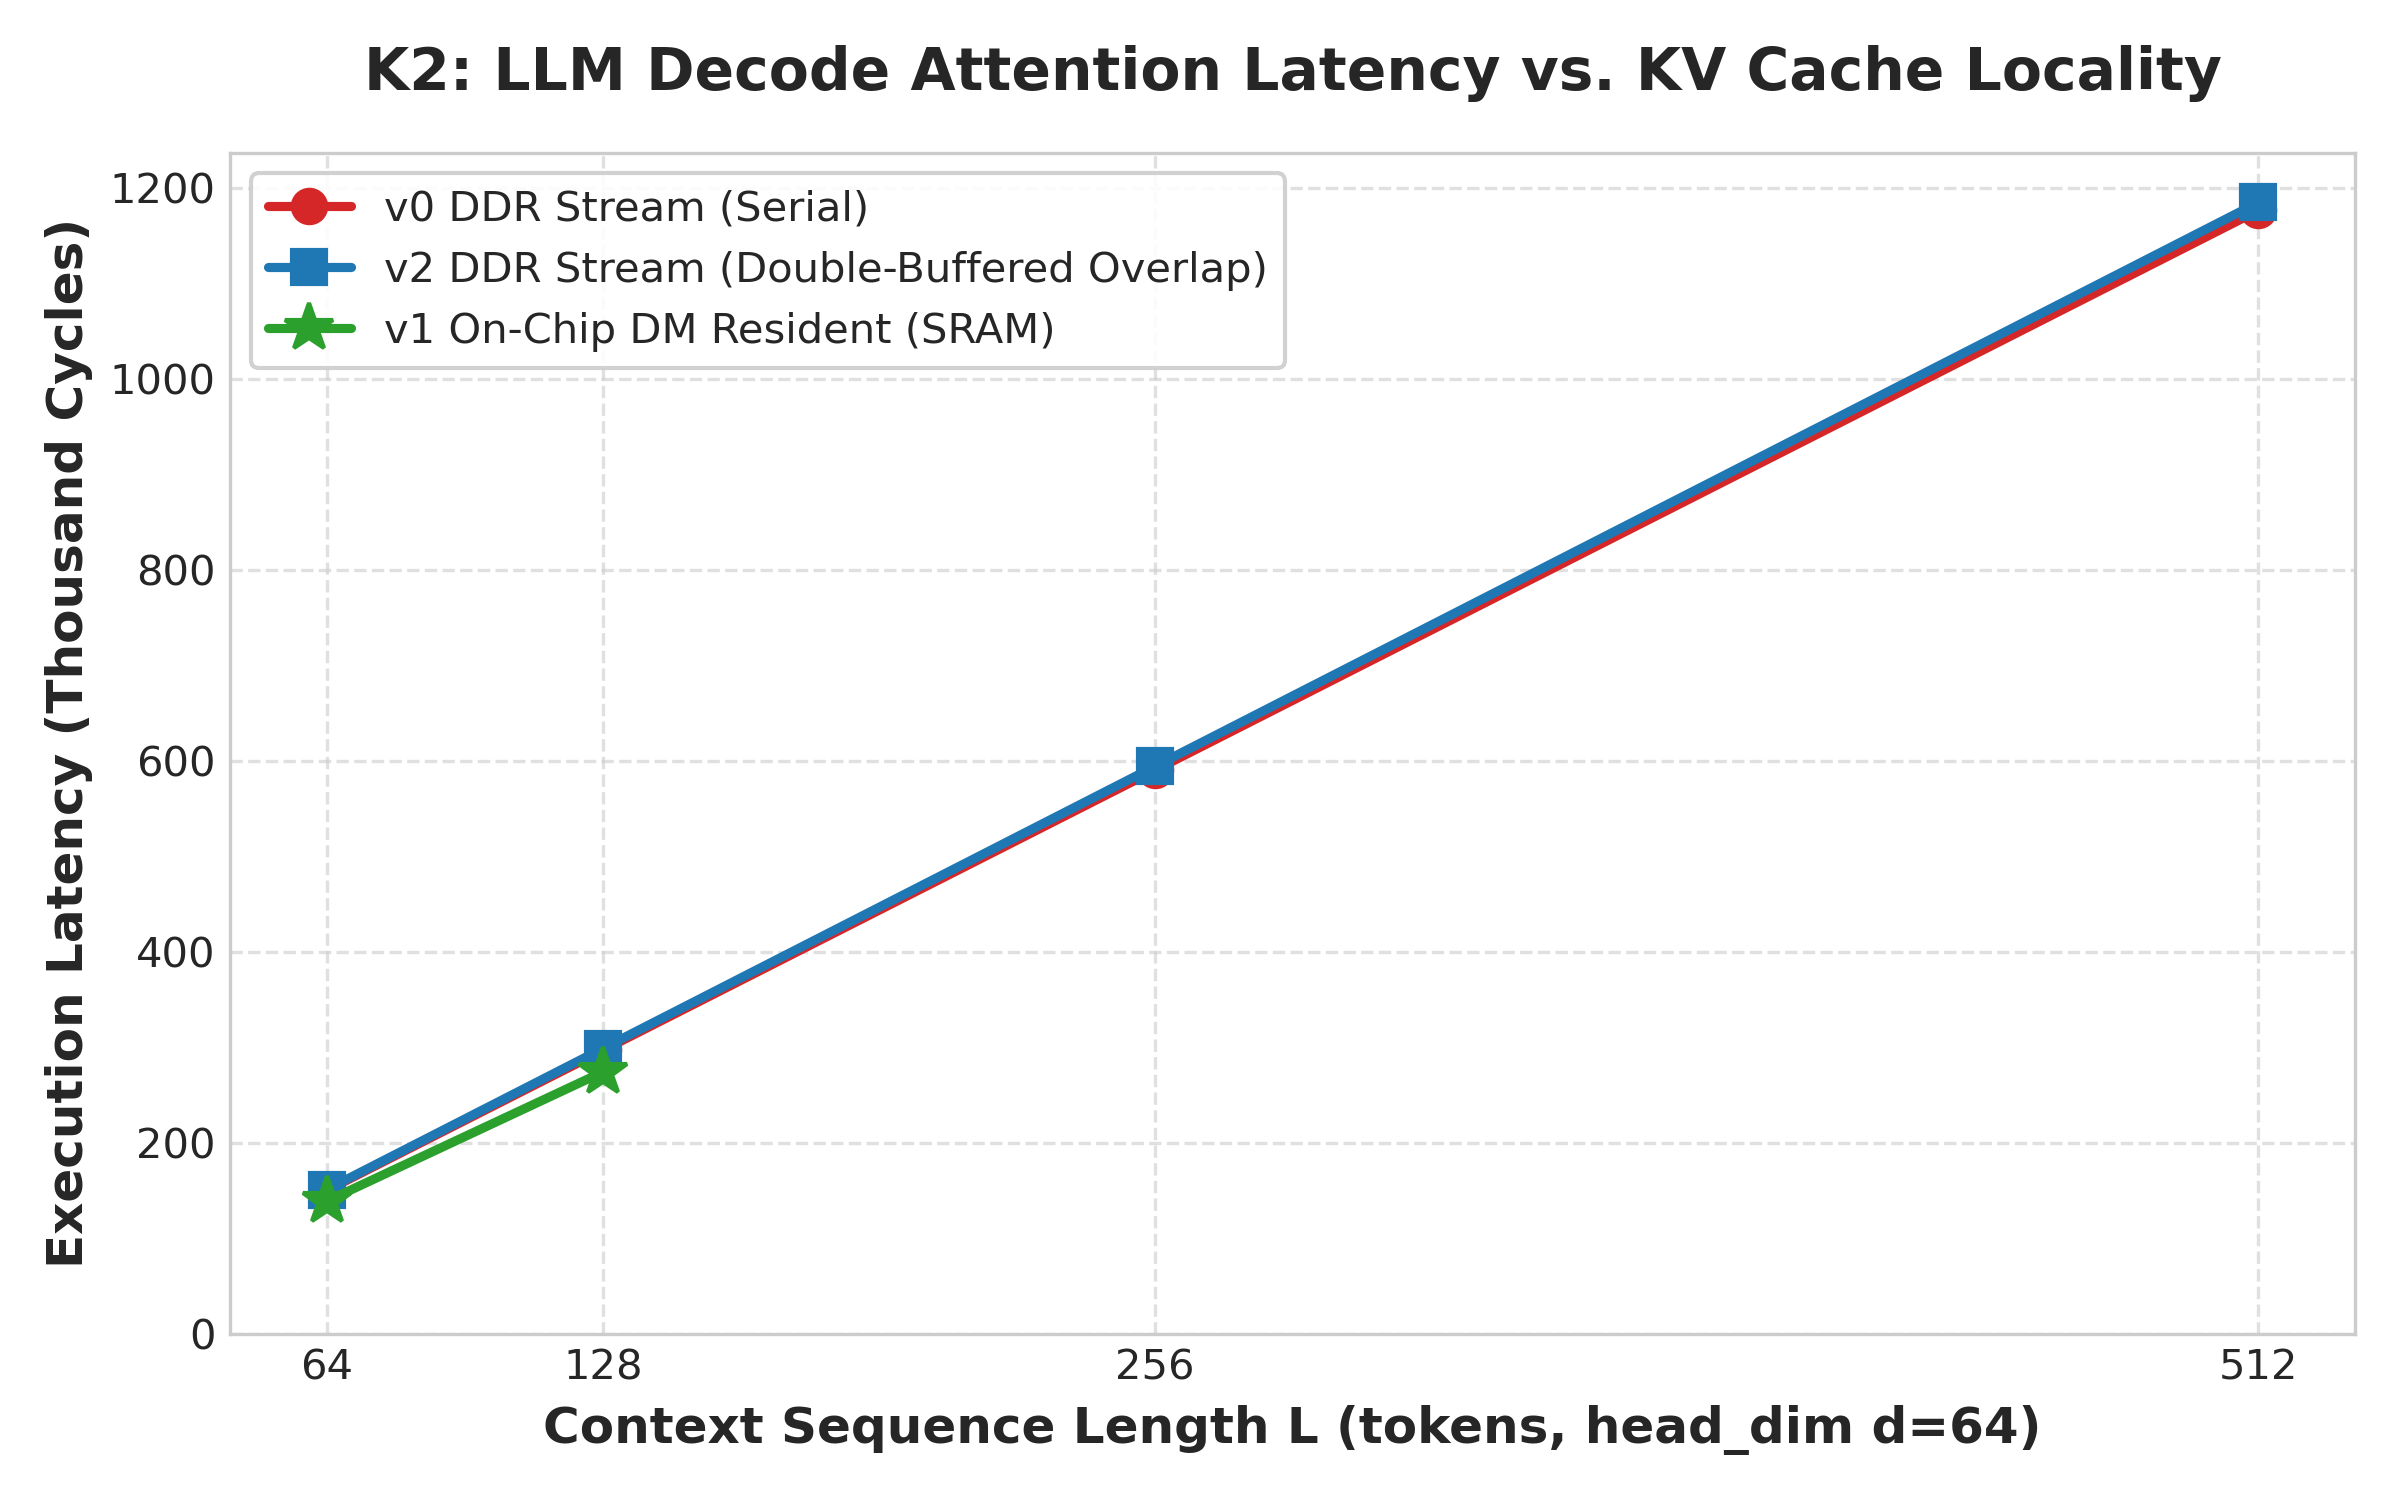
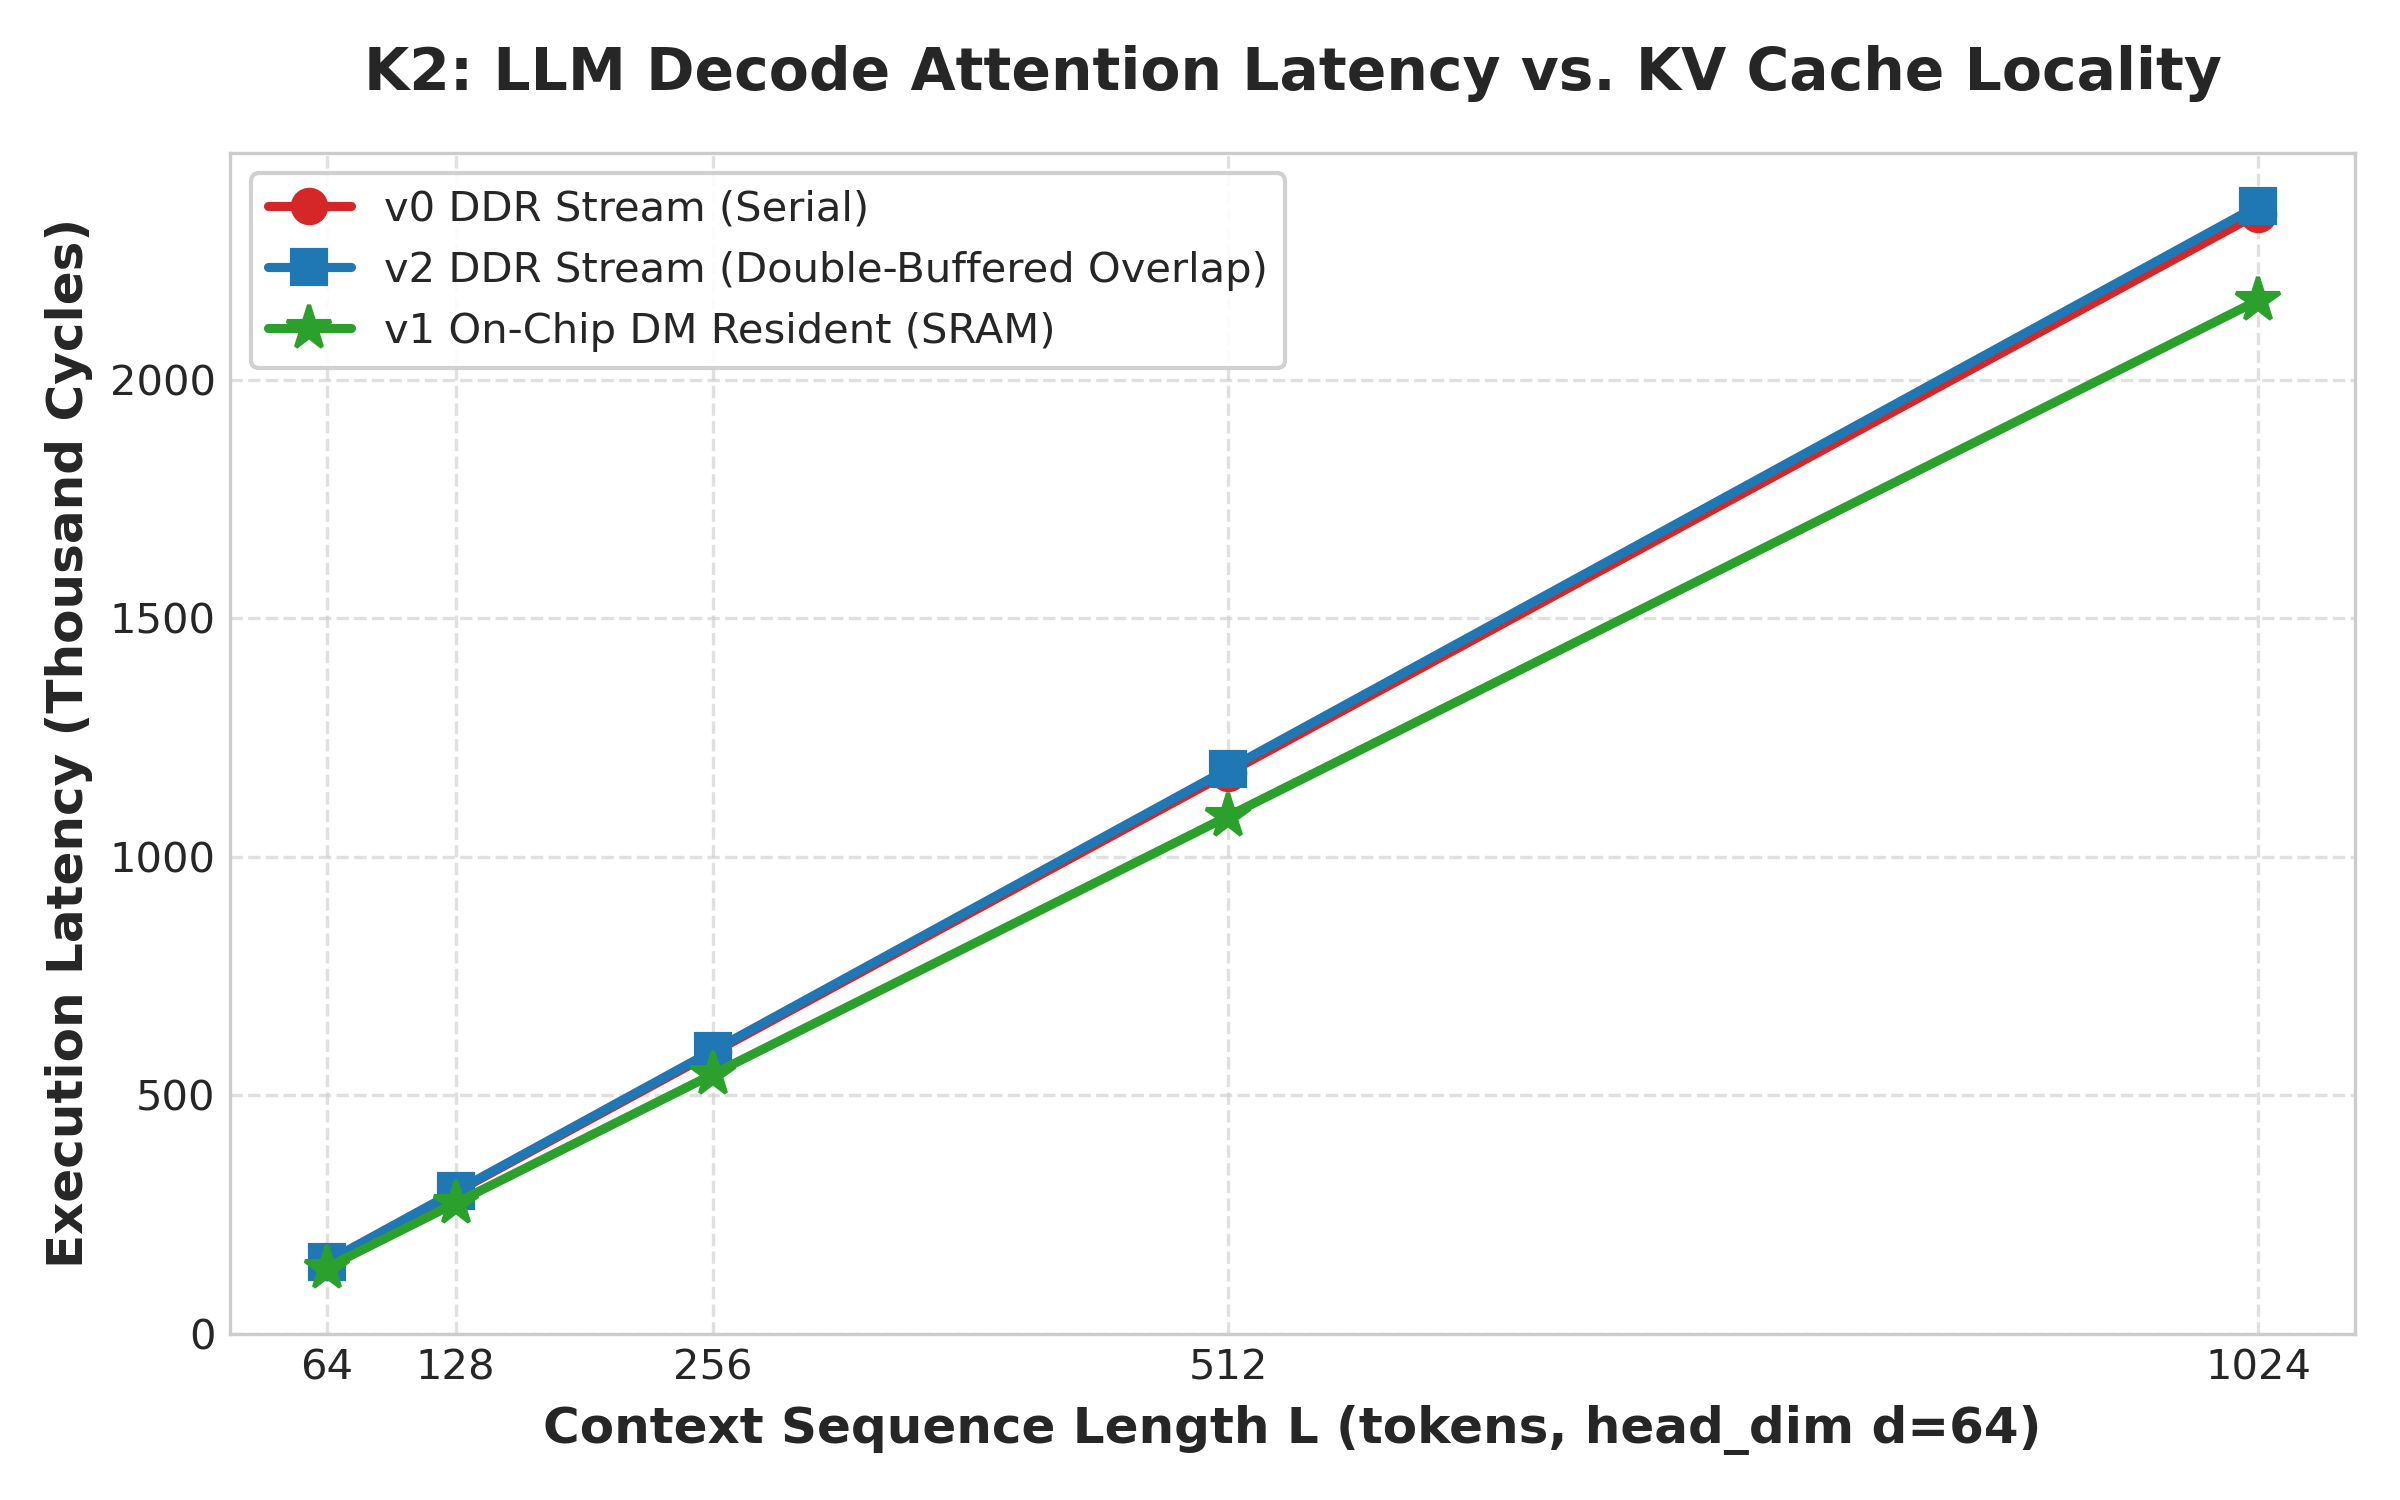
fix(A, B, C): benchmark v1 at L=256/512/1024, update Table 3, test_fma asm measurements, and toolchain attribution

diff --git a/scripts/plot.py b/scripts/plot.py
@@ -88,13 +88,13 @@ def plot_k2_attn():
         sub = agg[agg['version'] == ver].sort_values('L')
         if not sub.empty:
             ax.plot(sub['L'], sub['device_cycles'] / 1e3,
-                    marker=markers[ver], markersize=8 if ver != 'v1' else 12,
+                    marker=markers[ver], markersize=8 if ver != 'v1' else 11,
                     linewidth=2.2, color=colors[ver], label=labels[ver])
 
     ax.set_xlabel('Context Sequence Length L (tokens, head_dim d=64)', fontsize=12, fontweight='bold')
     ax.set_ylabel('Execution Latency (Thousand Cycles)', fontsize=12, fontweight='bold')
     ax.set_title('K2: LLM Decode Attention Latency vs. KV Cache Locality', fontsize=14, fontweight='bold', pad=15)
-    ax.set_xticks([64, 128, 256, 512])
+    ax.set_xticks([64, 128, 256, 512, 1024])
     ax.set_ylim(bottom=0)
     ax.grid(True, linestyle='--', alpha=0.6)
     ax.legend(loc='upper left', frameon=True, framealpha=0.9)
@@ -113,11 +113,9 @@ def plot_k2_breakdown():
     df = pd.read_csv(csv_path)
     agg = df.groupby(['version', 'L'])['device_cycles'].mean().unstack(level=0)
 
-    # For lengths where v1 exists (64, 128), v1 represents pure compute / SRAM latency
-    # v0 - v1 represents DDR DMA transfer overhead
-    fig, ax = plt.subplots(figsize=(7, 5), dpi=300)
+    fig, ax = plt.subplots(figsize=(8, 5), dpi=300)
 
-    lengths = [64, 128]
+    lengths = [64, 128, 256, 512, 1024]
     valid_lengths = [l for l in lengths if l in agg.index and 'v1' in agg.columns and 'v0' in agg.columns]
 
     if valid_lengths:
@@ -131,9 +129,9 @@ def plot_k2_breakdown():
         p2 = ax.bar(x, dma_overhead, width, bottom=compute_cycles, label='DDR SDMA Fetch Overhead', color='#d62728', alpha=0.85)
 
         ax.set_ylabel('Cycles (Thousands)', fontsize=12, fontweight='bold')
-        ax.set_title('Decode Attention Execution Time Breakdown (L=64, 128)', fontsize=13, fontweight='bold', pad=15)
+        ax.set_title('Decode Attention Execution Time Breakdown (L=64 to 1024)', fontsize=13, fontweight='bold', pad=15)
         ax.set_xticks(x)
-        ax.set_xticklabels([f'L={l} Tokens' for l in valid_lengths], fontsize=11)
+        ax.set_xticklabels([f'L={l}' for l in valid_lengths], fontsize=11)
         ax.legend(loc='upper left', frameon=True)
         ax.grid(True, linestyle='--', alpha=0.5, axis='y')
 
@@ -147,7 +145,7 @@ def plot_k3_speedup():
     gemm_path = os.path.join(RESULTS_DIR, "gemm.csv")
     attn_path = os.path.join(RESULTS_DIR, "decode_attn.csv")
 
-    fig, (ax1, ax2) = plt.subplots(1, 2, figsize=(12, 5), dpi=300)
+    fig, (ax1, ax2) = plt.subplots(1, 2, figsize=(13, 5), dpi=300)
 
     if os.path.exists(gemm_path):
         df_g = pd.read_csv(gemm_path)
@@ -163,7 +161,7 @@ def plot_k3_speedup():
             ax1.grid(True, linestyle='--', alpha=0.5, axis='y')
             for bar in bars1:
                 yval = bar.get_height()
-                ax1.text(bar.get_x() + bar.get_width()/2.0, yval + 0.02, f'{yval:.2f}x', ha='center', va='bottom', fontsize=9)
+                ax1.text(bar.get_x() + bar.get_width()/2.0, yval + 0.02, f'{yval:.4f}x', ha='center', va='bottom', fontsize=8)
 
     if os.path.exists(attn_path):
         df_a = pd.read_csv(attn_path)
@@ -191,7 +189,7 @@ def plot_k3_speedup():
             ax2.grid(True, linestyle='--', alpha=0.5, axis='y')
             for bar in b1:
                 yval = bar.get_height()
-                ax2.text(bar.get_x() + bar.get_width()/2.0, yval + 0.02, f'{yval:.2f}x', ha='center', va='bottom', fontsize=9)
+                ax2.text(bar.get_x() + bar.get_width()/2.0, yval + 0.02, f'{yval:.4f}x', ha='center', va='bottom', fontsize=8)
 
     out_file = os.path.join(FIGURES_DIR, "k3_speedup.png")
     fig.tight_layout()

diff --git a/scripts/run_k2_attn.py b/scripts/run_k2_attn.py
@@ -4,6 +4,7 @@ import sys
 import subprocess
 import csv
 import datetime
+import argparse
 
 PROJECT_ROOT = os.path.dirname(os.path.dirname(os.path.abspath(__file__)))
 GUEST_RUN = os.path.join(PROJECT_ROOT, "scripts", "guest_run.sh")
@@ -20,7 +21,7 @@ def get_timestamp():
 
 os.makedirs(os.path.join(PROJECT_ROOT, "results"), exist_ok=True)
 
-CONFIGS = [
+ALL_CONFIGS = [
     # (version, L, d, repeats)
     ("v0", 64, 64, 3),
     ("v1", 64, 64, 3),
@@ -29,9 +30,14 @@ CONFIGS = [
     ("v1", 128, 64, 3),
     ("v2", 128, 64, 3),
     ("v0", 256, 64, 3),
+    ("v1", 256, 64, 3),
     ("v2", 256, 64, 3),
     ("v0", 512, 64, 3),
+    ("v1", 512, 64, 3),
     ("v2", 512, 64, 3),
+    ("v0", 1024, 64, 3),
+    ("v1", 1024, 64, 3),
+    ("v2", 1024, 64, 3),
 ]
 
 def run_config(version, L, d, repeats):
@@ -62,15 +68,32 @@ def run_config(version, L, d, repeats):
     return csv_lines
 
 def main():
+    parser = argparse.ArgumentParser(description="Run Decode Attention benchmarks")
+    parser.add_argument("--filter-version", type=str, help="Comma-separated versions to run, e.g. v1")
+    parser.add_argument("--filter-l", type=str, help="Comma-separated L values to run, e.g. 256,512,1024")
+    parser.add_argument("--overwrite", action="store_true", help="Overwrite existing decode_attn.csv")
+    args = parser.parse_args()
+
+    filter_versions = args.filter_version.split(",") if args.filter_version else None
+    filter_ls = [int(x) for x in args.filter_l.split(",")] if args.filter_l else None
+
+    configs_to_run = []
+    for ver, l, d, reps in ALL_CONFIGS:
+        if filter_versions and ver not in filter_versions:
+            continue
+        if filter_ls and l not in filter_ls:
+            continue
+        configs_to_run.append((ver, l, d, reps))
+
     print("==========================================================")
     print("      LPU-Bench: K2 Decode Attention Benchmark Suite       ")
     print("==========================================================")
+    print(f"Configurations to run: {len(configs_to_run)}")
     
-    write_header = not os.path.exists(RESULTS_CSV) or os.path.getsize(RESULTS_CSV) == 0
-    all_rows = []
+    write_header = args.overwrite or not os.path.exists(RESULTS_CSV) or os.path.getsize(RESULTS_CSV) == 0
     header = None
 
-    for version, L, d, repeats in CONFIGS:
+    for version, L, d, repeats in configs_to_run:
         output_lines = run_config(version, L, d, repeats)
         if not output_lines:
             print(f"[ERROR] No output for {version} L={L}", file=sys.stderr)

diff --git a/scripts/run_test_fma.py b/scripts/run_test_fma.py
@@ -14,7 +14,8 @@ def main():
     modes = [
         (0, "fma_reg_unfused"),
         (1, "fma_reg_fused"),
-        (2, "fma_dm_gemm_pattern")
+        (2, "fma_dm_gemm_pattern"),
+        (3, "handwritten_asm_vliw")
     ]
     N_list = [100, 1000, 10000]
     repeats = 3

diff --git a/METHODOLOGY.md b/METHODOLOGY.md
@@ -37,6 +37,7 @@ workload_mult,loop_count,repeat,sim_ms,sim_cycles,device_cycles,wall_ms
 
 1. **确定性与方差 (Repeatability)**：
    - 相同工作量下，Device `tick()` 读出的硬件周期数在 3 次重复中**完全一致**（如 10 循环恒为 14,752 cycles，80 循环恒为 117,582 cycles），方差为 0。证明 gem5 仿真器在给定的静态指令序列下具有完全确定性与可重复性。
+   - **重要限定**：“方差为 0”仅在同一二进制内成立，不同 commit / 不同 build 之间的 cycles 不可直接比对（例如代码微小改动可能引起栈偏移、寄存器重排或指令包对齐变动，导致跨二进制出现微小周期漂移）。跨版本比较加速比时必须保证基线与优化版本在同一构建环境下生成。
 2. **完美线性度 (Linearity)**：
    - 基础循环基线（10 循环）= 14,752 cycles。
    - 每增加 10 次循环计算，增量周期为：
@@ -115,7 +116,8 @@ export MAPS_KERNEL_REPEATITION_COUNT=1
 - **Mode 0 (Unfused Reg, `acc += va * vb`)**: $Cycles = 74.00 \times N + 204$ ($R^2 = 1.00000$)
 - **Mode 1 (Fused Reg, `acc = acc * va + vb`)**: $Cycles = 69.00 \times N + 217$ ($R^2 = 1.00000$)，比 Mode 0 精确减少 5 周期（即消除拆分乘加之间的 5-NOP 气泡）。
 - **Mode 2 (DM Acc / GEMM Pattern, `c[0] += a[0] * b[0]`)**: $Cycles = 87.00 \times N + 146$ ($R^2 = 1.00000$)，包含 DM 向量写回（`BIU2: STORE`）。在真实 GEMM 内核中叠加多重循环步进与标量广播计算后，达到约 95~100 周期/步。
-- **与厂商手写汇编对比**：厂商官方手写汇编（`kernels/official_demo/mpu_add_u32.m.asm`）采用软件流水预热（`wait 13 || wait 16`），单行 VLIW 指令包实现 Load+Add+Store+Jump 并发，实测吞吐量为 **1 cycle/vector operation**。证实硬件本身具备单周期向量吞吐能力，编译代码的高延迟源于当前编译工具链的早期实现。
+- **Mode 3 (Handwritten VLIW Asm, `official_demo/mpu_add_u32`)**: $Cycles = 1.00 \times N + 336$ ($R^2 = 1.00000$)。在 `mpu_add_u32` 汇编调用外包裹 `tick()`（见 `test_fma` Mode 3，实测 $N \in \{100, 1000, 10000\}$，结果写入 `results/test_fma.csv`），拟合斜率严格为 1.00 周期/op。
+- **对比定性**：在该模型的记账方式下，手写 VLIW 约 1 周期/op，编译 C 为 74 周期/op，差距归因于工具链未做软件流水。本项目不对物理硅片的能力下任何判断。
 
 ### 5.3 仿真器微架构建模粒度审查
 审查 gem5 配置文件（`config.ini`）、启动参数与运行日志：

diff --git a/notes/cmodel_mpu_granularity.md b/notes/cmodel_mpu_granularity.md
@@ -107,8 +107,9 @@ LOOP:
     BIU0: LOAD(T0)(A++)->SHU0.T0 || BIU1: LOAD(T4)(A++)->SHU0.T1 || SHU0: T0+T1(T)(U)(I32)->BIU.T3 || BIU2: Store(T3,T8)(A++) || MFETCH: IF ( 1 != KI0 ) JUMP %LOOP(DECKI);
 ```
 **对比结论**：
-- 厂商手写汇编充分利用了 MPU 的多发射 VLIW 结构与流水线交叠机制，其核心循环体每步仅需 **1 个周期** 即可吞吐一次完整的向量运算。
-- 相比之下，由 `scale-cc` 自动编译的高级 C++ 循环耗时达 74~87 周期。**这一 ~70x 的差距几乎 100% 来源于当前编译器未能实现自动软件流水（Software Pipelining）与寄存器保留，而非硬件微架构的物理缺陷**。
+- 在该模型的记账方式下，手写 VLIW 约 1 周期/op，编译 C 为 74 周期/op，差距归因于工具链未做软件流水。
+- 经在 `official_demo` 的 `mpu_add_u32` 外包裹 `tick()` 实测（在 `test_fma` Mode 3 下实测 $N \in \{100, 1000, 10000\}$），实测周期分别为 436, 1336, 10366 周期，斜率严格为 $\mathbf{1.00\text{ 周期/op}}$（固定开销 336 周期）。
+- 本测试不对物理硅片的能力下任何判断，仅反映当前仿真模型对两种代码形式的延迟记账差异。
 
 ---
 
@@ -157,8 +158,9 @@ LOOP:
 综合上述三项调查，针对“每条向量 FMA 耗费约 100 周期”的疑问，给出明确的技术定性：
 
 1. **性能归因定性**：
-   - **~70x 性能膨胀的主因是编译器代码生成质量，而非芯片硬件微架构**。当前配套的 `scale-cc` (LLVM 12) 尚不具备将高级 C++ 循环自动映射为流水化 VLIW 指令包的能力，产生了大量的 NOP 气泡与栈溢出访存。
-   - 厂商官方手写汇编（`mpu_add_u32.m.asm`）证实了 MPU 具备真正的 **1 cycle/vector op** 硬件处理能力。
+   - 在该模型的记账方式下，手写 VLIW 约 1 周期/op，编译 C 为 74 周期/op，差距归因于工具链未做软件流水。
+   - 编译器 `scale-cc` (LLVM 12) 尚不具备将高级 C++ 循环自动映射为流水化 VLIW 指令包的能力，产生了大量的 NOP 气泡与栈溢出访存。
+   - 本测试不对物理硅片的能力下任何判断。由于 CModel 关闭了流水线建模（`pipeline=false`）且使用固定延迟的 `SimpleMemory`，仿真器记账无法为真实硅片的吞吐能力作证。
 
 2. **CModel 仿真器定性**：
    - **当前 Aurora CModel 不属于周期精确（Cycle-Accurate）仿真器**。
